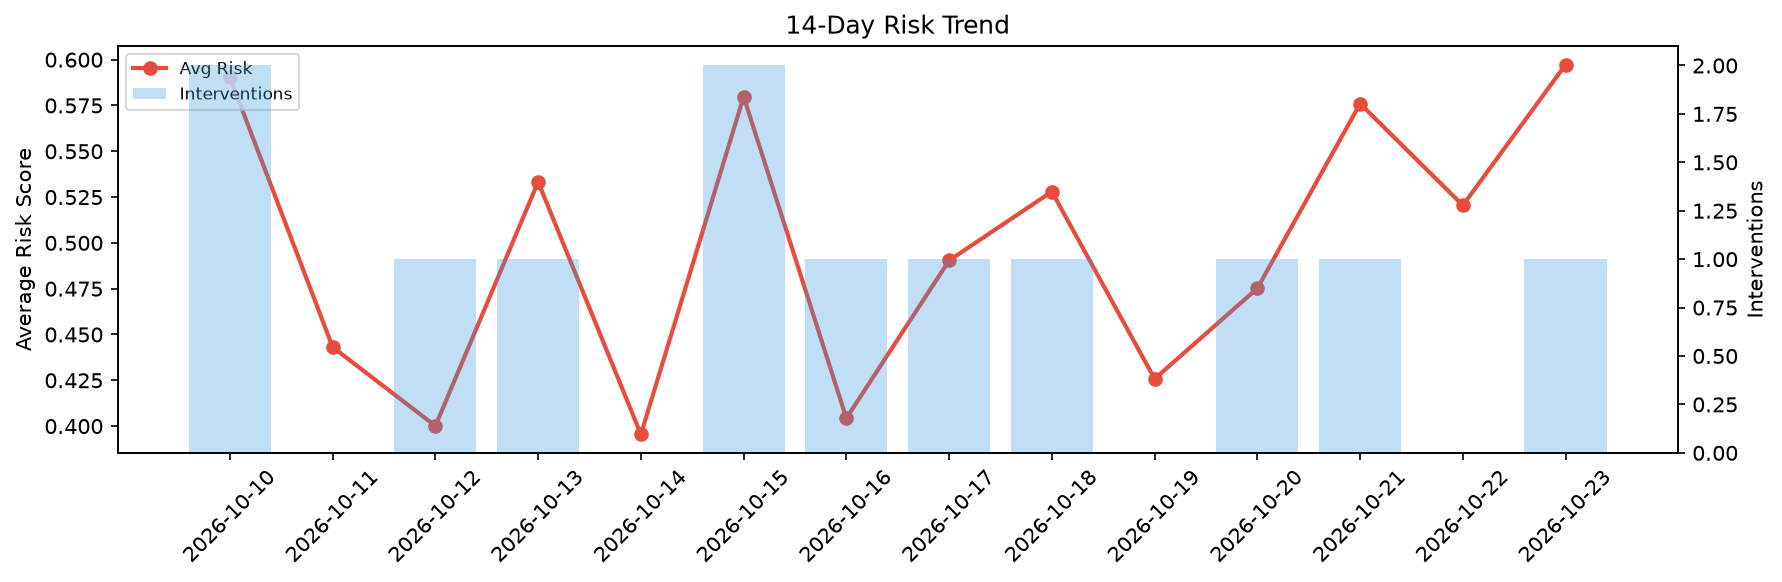
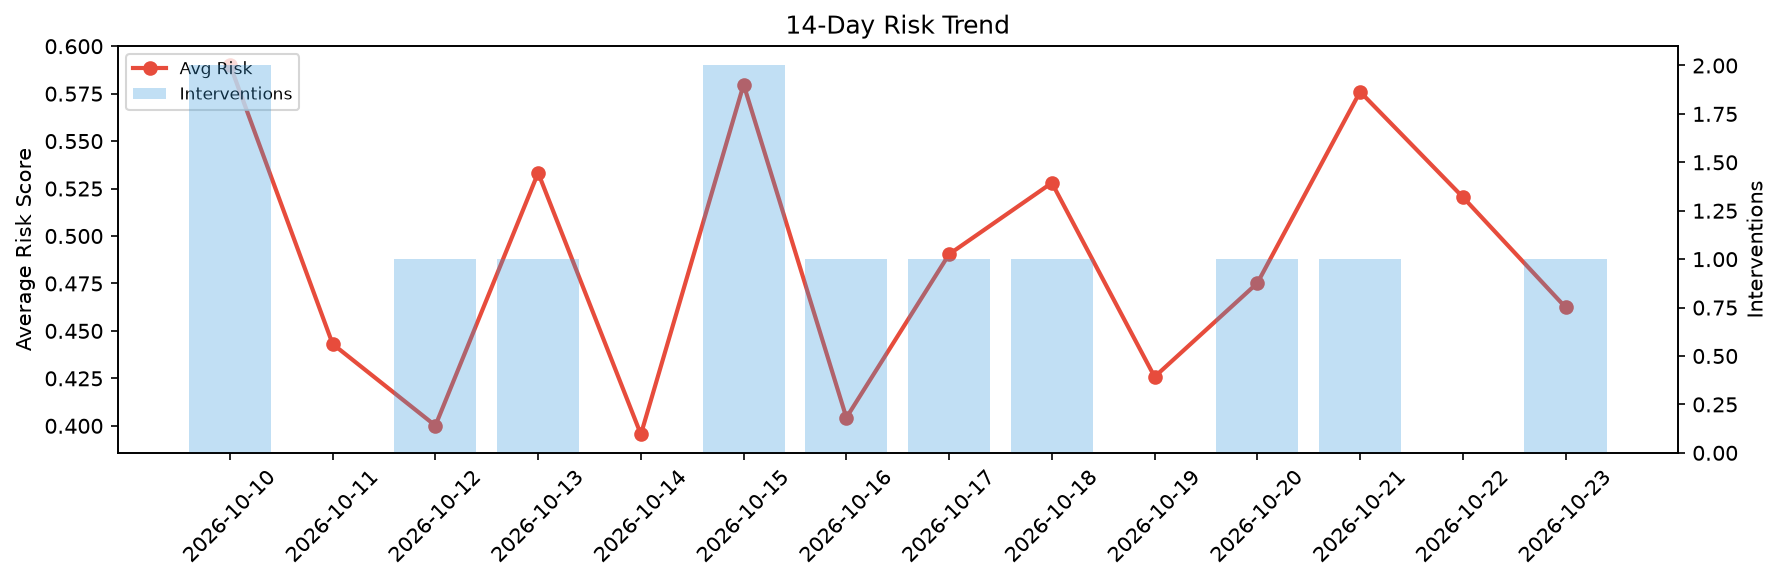
agent-improvement: daily cycle 2026-10-23T13:26

diff --git a/logs/2026-10-23.md b/logs/2026-10-23.md
@@ -1,6 +1,6 @@
 # Agent Improvement Report — 2026-10-23
 
-**Cycle ID:** `cf0813f8` | **Avg Risk:** 0.5973 | **Interventions:** 1/4
+**Cycle ID:** `eebb1739` | **Avg Risk:** 0.4624 | **Interventions:** 1/4
 
 ![Dashboard](2026-10-23_dashboard.png)
 
@@ -10,18 +10,18 @@
 
 | Domain | Risk Score | Decision | Alerts |
 |--------|-----------|----------|--------|
-| code_review | 0.569 | monitor | complexity, duplication |
-| incident_response | 0.8602 | intervene | severity, blast_radius, mttr |
-| data_pipeline | 0.4956 | monitor | none |
-| deployment | 0.4644 | monitor | none |
+| code_review | 0.5348 | monitor | none |
+| incident_response | 0.5127 | monitor | none |
+| data_pipeline | 0.1102 | monitor | none |
+| deployment | 0.6918 | intervene | latency_p99 |
 
 ## Delta vs Yesterday
 
 | Domain | Today | Yesterday | Change |
 |--------|-------|-----------|--------|
-| code_review | 0.569 | 0.527 | 📈 8.0% |
-| incident_response | 0.8602 | 0.5378 | 📈 59.9% |
-| data_pipeline | 0.4956 | 0.493 | 📈 0.5% |
-| deployment | 0.4644 | 0.5244 | 📉 -11.4% |
+| code_review | 0.5348 | 0.527 | 📈 1.5% |
+| incident_response | 0.5127 | 0.5378 | 📉 -4.7% |
+| data_pipeline | 0.1102 | 0.493 | 📉 -77.6% |
+| deployment | 0.6918 | 0.5244 | 📈 31.9% |
 
-**Refinement:** `{'adjustment': 'maintain', 'trend': 'improving', 'window': 4}`
+**Refinement:** `{'adjustment': 'tighten_thresholds', 'trend': 'degrading', 'window': 4}`
